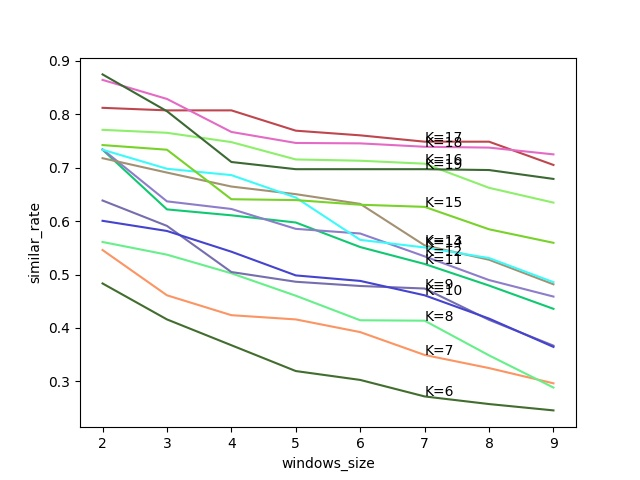
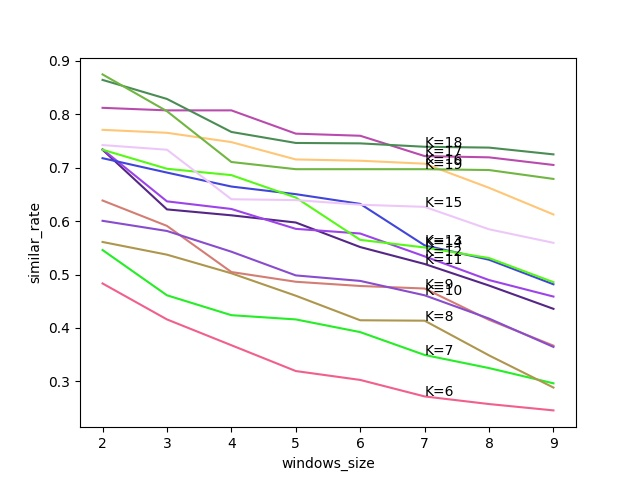
改进sim-winowing-属性度量

diff --git a/src/simihash-winowing-measuer_of_program/winowing/winnowing.py b/src/simihash-winowing-measuer_of_program/winowing/winnowing.py
@@ -47,8 +47,6 @@ def fingerprints(arr, winSize = 4):
         if not currMin == prevMin:
             fingerprintList.append(arr[currMin])
             prevMin = currMin
-    print('---------')
-    print(fingerprintList)
     return fingerprintList
 
 #根据k-gram字符序列生成对应的hash序列
@@ -60,7 +58,7 @@ def hashList(arr):
     return HL
 
 # 检测抄袭
-def plagiarismCheck(file1, file2,k=17, w=6):
+def plagiarismCheck(file1, file2,k=5, w=4):
     f1 = open(file1, "r")
     # tokenize 和为cleanUP中代码预处理的方法
     token1 = tokenize(file1)
@@ -78,11 +76,8 @@ def plagiarismCheck(file1, file2,k=17, w=6):
     print(fpList1)
     print(fpList1.__len__())
     fpList2 = fingerprints(HL2, winSize=w)
-    start = []
-    end = []
     # 原代码
     code = f1.read()
-    newCode = ""
     points = []
     for i in fpList1:
         for j in fpList2:
@@ -95,7 +90,6 @@ def plagiarismCheck(file1, file2,k=17, w=6):
                 newStart = kGrams1[match][2]
                 # 结束位置
                 newEnd = kGrams1[match][3]
-                startx=endx=0
                 for k in token1:
                     if k[2] == newStart:
                         startx = k[1]
@@ -128,7 +122,7 @@ def plagiarismCheck(file1, file2,k=17, w=6):
                 newCode = newCode + code[mergedPoints[i][1]: mergedPoints[i+1][0]]
             else:
                 newCode = newCode + code[mergedPoints[i][1]:]
-    # print("代码相似率大约为: ", (plagCount/len(code)))
+    print("代码相似率大约为: ", (plagCount/len(code)))
     # print(newCode)
     return plagCount/len(code)
 

diff --git a/src/simihash-winowing-measuer_of_program/simi/simi.py b/src/simihash-winowing-measuer_of_program/simi/simi.py
@@ -1,10 +1,14 @@
+from scipy.spatial.distance import pdist
+
 from simhash import Simhash
 from utils.cleanUP import tokenize, toText
 from winowing.winnowing import plagiarismCheck
+from code_measure.measure_of_program import properties
+import numpy as np
 
-
-def simi(file1, file2, k=17, w=6, w1=0.4, w2=0.6) :
+def simi(file1, file2, k=5, w=4, w1=0.4, w2=0.3, w3=0.3) :
     f1 = open(file1, "r")
+    f2 = open(file2, "r")
     # tokenize 和为cleanUP中代码预处理的方法
     token1 = tokenize(file1)
     str1 = toText(token1)
@@ -17,8 +21,11 @@ def simi(file1, file2, k=17, w=6, w1=0.4, w2=0.6) :
     simhash_distance = simhash1.distance(simhash2)
     winnowing = plagiarismCheck(file1, file2, k=k, w=w)
     print(winnowing)
-    simi = w1 / (1 + simhash_distance) + winnowing * w2
-    print('w1(%f)/(1+simhash_distance(%f)) + winnowing(%f) * w2(%f) = simi(%f)'%(w1,simhash_distance, winnowing, w2, simi))
+    x = properties(f1.read())
+    y = properties(f2.read())
+    dist = np.dot(x,y)/(np.linalg.norm(x)*np.linalg.norm(y))
+    simi = w1 / (1 + simhash_distance) + winnowing * w2 + dist*w3
+    print('w1(%f)/(1+simhash_distance(%f)) + winnowing(%f) * w2(%f) + dist(%f)*w3(%f)= simi(%f)'%(w1,simhash_distance, winnowing, w2, dist, w3, simi))
 
 
     return simi
@@ -29,7 +36,7 @@ if __name__ == '__main__':
     fn1 ='/home/lovemefan/文档/a.java'
     fn2 ='/home/lovemefan/文档/b.java'
     simi_value = simi(fn1, fn2)
-    print("simhash 和 winnowing 加权结果：%f"%simi_value)
+    print("simhash 和 winnowing 和属性加权结果：%f"%simi_value)
 
 
 

diff --git a/src/simihash-winowing-measuer_of_program/code_measure/measure_of_program.py b/src/simihash-winowing-measuer_of_program/code_measure/measure_of_program.py
@@ -5,7 +5,6 @@
 # @Software: PyCharm
 
 
-# 代码属性度量
 import re
 
 import pygments.lexers
@@ -90,6 +89,7 @@ def turn(str):
     str = str.replace('[', '\[')
     str = str.replace(']', '\]')
     str = str.replace('+', '\+')
+    str = str.replace('*', '\*')
     return str
 
 if __name__ == '__main__':

diff --git a/src/simihash-winowing-measuer_of_program/utils/绘图.py b/src/simihash-winowing-measuer_of_program/utils/绘图.py
@@ -57,6 +57,6 @@ def randomcolor():
 if __name__ == '__main__':
     fn1 = '/home/lovemefan/文档/a.java'
     fn2 = '/home/lovemefan/文档/b.java'
-    # k_value(fn1, fn2)
+    k_value(fn1, fn2)
 
-    W1_W2(fn1, fn2)
+    # W1_W2(fn1, fn2)

diff --git a/README.md b/README.md
@@ -1,0 +1,1 @@
+# Code Plagiarism Checker
